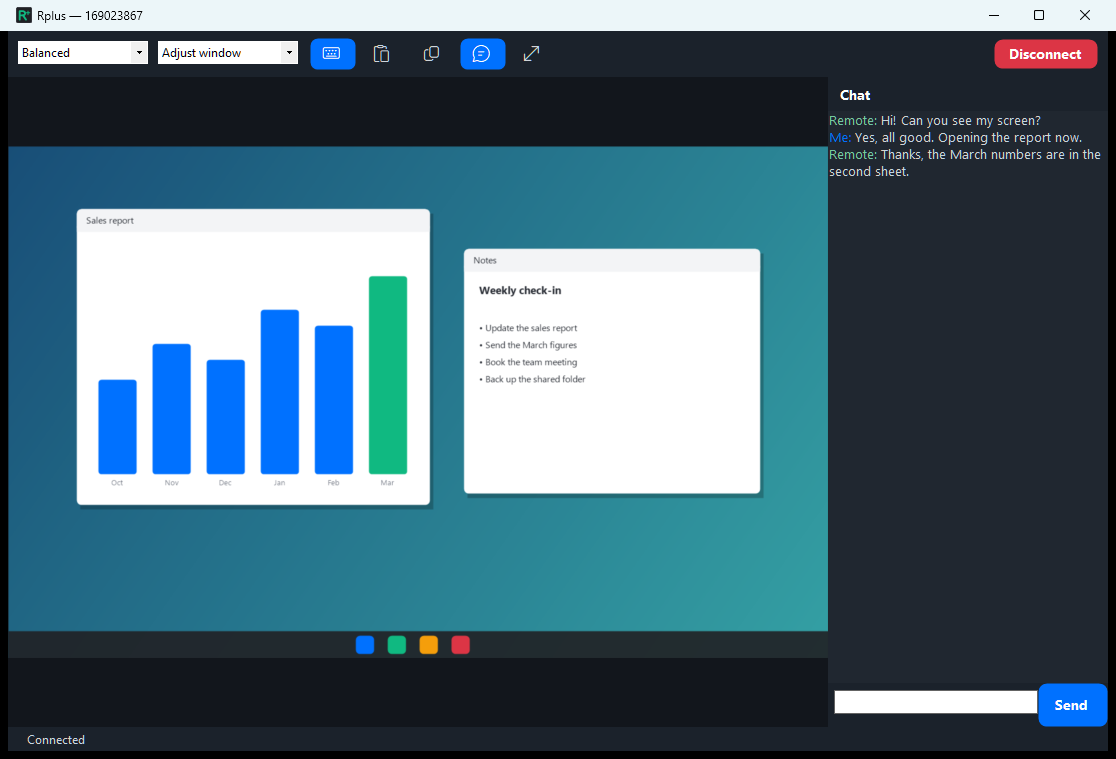
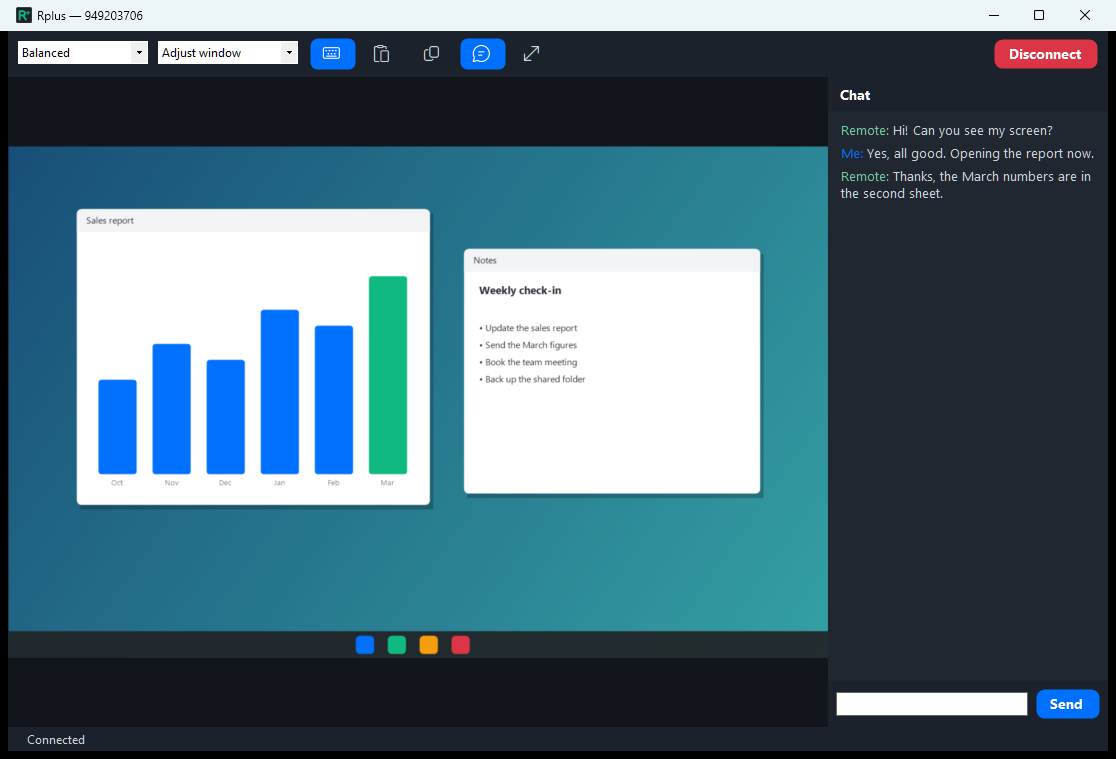
docs(readme): add chat panel close-up
--session-screenshot <png> --chat saves just the chat panel with a
longer made-up conversation and a draft in the input box.

Chat panel: the log has padding instead of touching the panel edge,
messages have a small gap between them, and the input box lines up
with the Send button. The session screenshot is retaken to match.

Changed region(s): [[0.7312, 0.1515, 1.0, 0.2727], [0.7312, 0.8788, 1.0, 0.9697], [0.0609, 0.0, 0.1219, 0.0303]]

diff --git a/app/Program.cs b/app/Program.cs
@@ -32,7 +32,7 @@ internal static class Program
 
         // --session-screenshot <out.png>: the session window with a made-up remote desktop (no connection)
         int ss = Array.IndexOf(args, "--session-screenshot");
-        if (ss >= 0 && ss + 1 < args.Length) { RunSessionScreenshot(args[ss + 1], Array.IndexOf(args, "--files") >= 0); return; }
+        if (ss >= 0 && ss + 1 < args.Length) { RunSessionScreenshot(args[ss + 1], Array.IndexOf(args, "--files") >= 0, Array.IndexOf(args, "--chat") >= 0); return; }
 
         // --demo: throwaway settings (random ID, no server, default approval), e.g. for README screenshots
         var cfg = Array.IndexOf(args, "--demo") >= 0 ? Config.Demo() : Config.Load();
@@ -174,7 +174,7 @@ internal static class Program
 
     /// <summary>Saves the session window showing a drawn demo desktop. Nothing real is captured:
     /// the settings are throwaway, there is no connection, and the window renders itself.</summary>
-    private static void RunSessionScreenshot(string path, bool files = false)
+    private static void RunSessionScreenshot(string path, bool files = false, bool chatOnly = false)
     {
         var cfg = Config.Demo();
         cfg.ViewStyle = "Adjust window";   // show the whole demo desktop
@@ -190,6 +190,21 @@ internal static class Program
                 new() { D("Invoices", 3), D("Photos", 12), F("Budget 2026.xlsx", 48_210, 1.2), F("Meeting notes.docx", 23_552, 0.3), F("Team photo.jpg", 2_457_600, 9), F("Setup guide.pdf", 1_310_720, 30) },
                 @"D:\Shared\Reports",
                 new() { D("Archive", 40), F("March figures.xlsx", 61_440, 0.1), F("Q1 summary.pdf", 845_000, 2), F("Sales chart.png", 312_000, 0.5), F("Readme.txt", 1_200, 60) });
+        }
+        else if (chatOnly)
+        {
+            form.ShowDemo(desk, new[]
+            {
+                ("Remote", "Hi! Can you see my screen?"),
+                ("Me", "Yes, all good. Which file is it?"),
+                ("Remote", "The sales report, it won't print."),
+                ("Me", "Found it. The printer was set to the old office one, switching it now."),
+                ("Remote", "Brilliant, thank you!"),
+                ("Me", "Done. I'll send you the March figures too."),
+                ("Remote", "Perfect, they're in the Reports folder."),
+            });
+            form.ChatDraft = "Got them, sending over now";
+            form.ClientSize = new Size(form.ClientSize.Width, 520);   // the close-up doesn't need the full height
         }
         else form.ShowDemo(desk, new[]
         {
@@ -209,7 +224,13 @@ internal static class Program
                 IntPtr hdc = g.GetHdc();
                 try { PrintWindow(form.Handle, hdc, 2 /*PW_RENDERFULLCONTENT*/); } finally { g.ReleaseHdc(hdc); }
             }
-            bmp.Save(path, ImageFormat.Png);
+            if (chatOnly)
+            {
+                var r = Rectangle.Intersect(form.ChatBoundsInWindow(), new Rectangle(0, 0, bmp.Width, bmp.Height));
+                using var crop = bmp.Clone(r, bmp.PixelFormat);
+                crop.Save(path, ImageFormat.Png);
+            }
+            else bmp.Save(path, ImageFormat.Png);
         }
         catch { }
         try { form.Close(); } catch { }

diff --git a/app/UiParts.cs b/app/UiParts.cs
@@ -120,20 +120,28 @@ internal sealed class ChatPanel : Panel
             Font = Theme.F(10f, FontStyle.Bold), TextAlign = ContentAlignment.MiddleLeft, BackColor = Color.FromArgb(27, 34, 43) };
         _log = new RichTextBox { Dock = DockStyle.Fill, ReadOnly = true, BorderStyle = BorderStyle.None,
             BackColor = Color.FromArgb(32, 39, 48), ForeColor = Theme.RailText, Font = Theme.F(9.5f) };
-        var bottom = new Panel { Dock = DockStyle.Bottom, Height = 44, BackColor = Color.FromArgb(27, 34, 43) };
+        var bottom = new Panel { Dock = DockStyle.Bottom, Height = 46, BackColor = Color.FromArgb(27, 34, 43), Padding = new Padding(8, 8, 8, 8) };
         _input = new TextBox { Dock = DockStyle.Fill, BorderStyle = BorderStyle.FixedSingle, Font = Theme.F(9.5f),
             Margin = new Padding(6) };
         _input.KeyDown += (_, e) => { if (e.KeyCode == Keys.Enter) { e.SuppressKeyPress = true; Fire(); } };
-        var send = new FlatButton { Text = "Send", Primary = true, Dock = DockStyle.Right, Width = 70 };
+        var send = new FlatButton { Text = "Send", Primary = true, Dock = DockStyle.Right, Width = 64 };
         send.Click += (_, _) => Fire();
-        var wrap = new Panel { Dock = DockStyle.Fill, Padding = new Padding(6, 7, 0, 7) };
+        var wrap = new Panel { Dock = DockStyle.Fill, Padding = new Padding(0, 3, 8, 0) };   // centres the box against the button
         wrap.Controls.Add(_input);
         bottom.Controls.Add(wrap);
         bottom.Controls.Add(send);
-        Controls.Add(_log);
+        // the log sits in a padded holder so text doesn't touch the panel's edges
+        var logHolder = new Panel { Dock = DockStyle.Fill, Padding = new Padding(12, 10, 8, 6), BackColor = Color.FromArgb(32, 39, 48) };
+        logHolder.Controls.Add(_log);
+        Controls.Add(logHolder);
         Controls.Add(bottom);
         Controls.Add(header);
     }
+
+    private static readonly Font _gapFont = new("Segoe UI", 4f);
+
+    /// <summary>Text waiting in the input box (used by the chat screenshot).</summary>
+    public string Draft { set => _input.Text = value; }
 
     private void Fire()
     {
@@ -149,6 +157,9 @@ internal sealed class ChatPanel : Panel
         _log.AppendText($"{who}: ");
         _log.SelectionColor = Theme.RailText;
         _log.AppendText(text + Environment.NewLine);
+        _log.SelectionFont = _gapFont;              // a short blank line between messages
+        _log.AppendText(Environment.NewLine);
+        _log.SelectionFont = _log.Font;
         _log.ScrollToCaret();
     }
 }

diff --git a/app/SessionForm.cs b/app/SessionForm.cs
@@ -74,6 +74,15 @@ internal sealed class SessionForm : Form
 
     /// <summary>No connection: shows the given picture as the remote screen, plus a short chat.
     /// Used by --session-screenshot so screenshots never show a real desktop.</summary>
+    /// <summary>The chat panel's area inside the window (for the chat close-up screenshot).</summary>
+    public Rectangle ChatBoundsInWindow()
+    {
+        var p = _chat.PointToScreen(Point.Empty);
+        return new Rectangle(p.X - Bounds.X, p.Y - Bounds.Y, _chat.Width, _chat.Height);
+    }
+
+    public string ChatDraft { set => _chat.Draft = value; }
+
     public void ShowDemo(Bitmap frame, (string who, string text)[] chat)
     {
         _demo = true;

diff --git a/README.md b/README.md
@@ -10,6 +10,8 @@ self-hosted ID/relay server.
 
 ![Rplus session window with chat open](app/shots/session.png)
 
+<img src="app/shots/chat.png" width="280" alt="Rplus chat panel close-up">
+
 ![Rplus file transfer between two computers](app/shots/files.png)
 
 ![Rplus recent and favourite computers](app/shots/recent.png)
